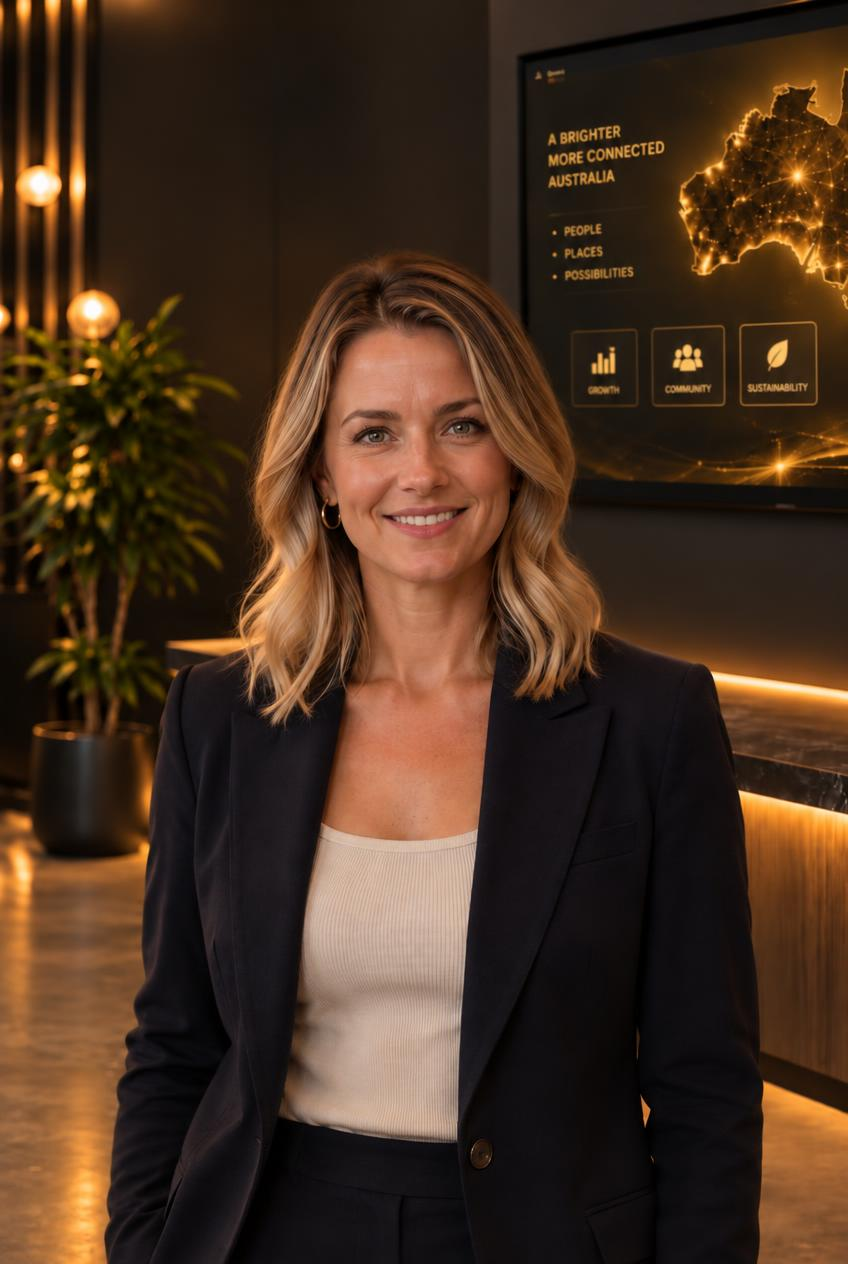
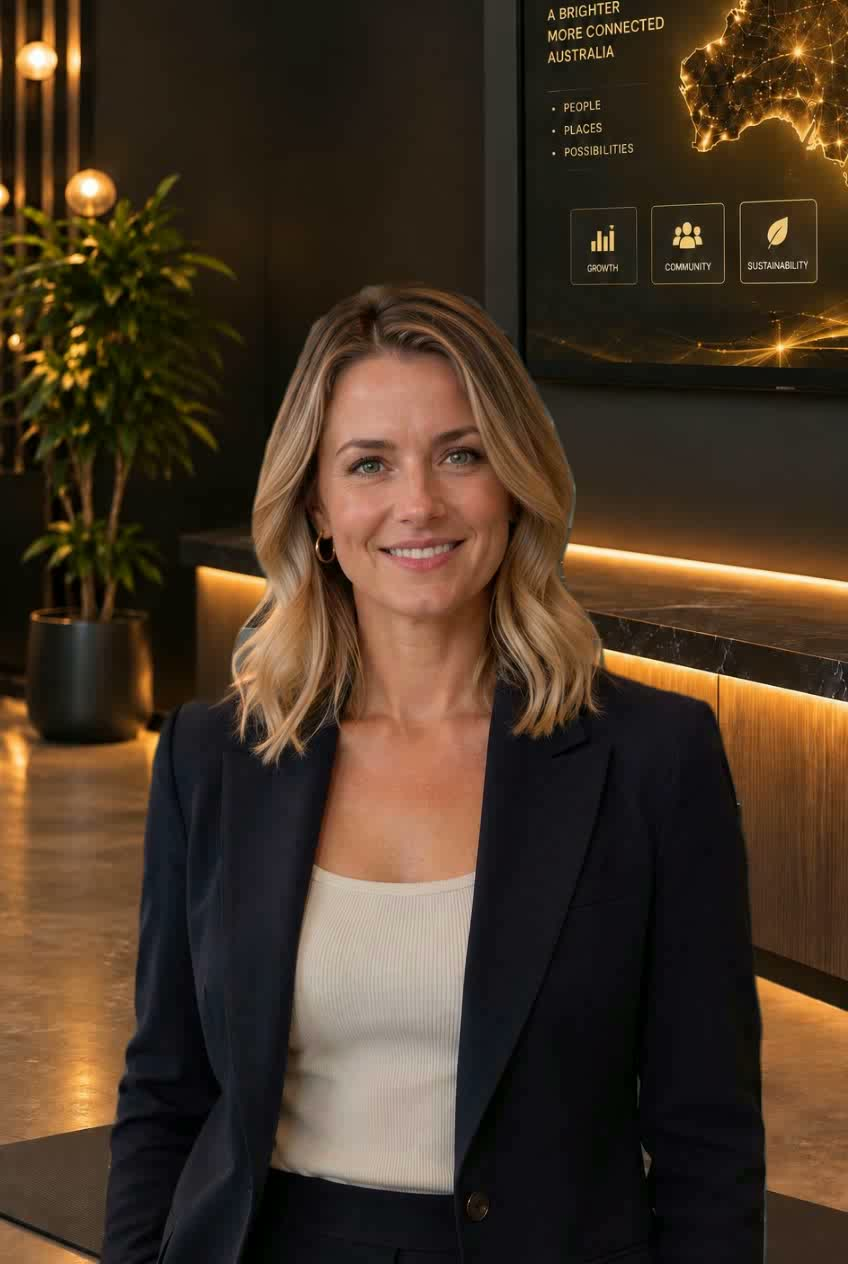
Oracle chat: restore original clips and framing with the office background swapped for the gold studio

diff --git a/src/components/oracle/OraclePresenterStage.tsx b/src/components/oracle/OraclePresenterStage.tsx
@@ -3,17 +3,17 @@ import { Button } from "@/components/ui/button";
 import { Play } from "lucide-react";
 import fitnessOutfitUrl from "@/assets/fitness/oracle-fitness-outfit-green.jpg";
 import fitnessIdleClip from "@/assets/fitness/fitness-idle-glance.mp4.asset.json";
-import studioPortraitUrl from "@/assets/avatars/oracle-studio-portrait.jpg";
-import studioIdleClip from "@/assets/avatars/oracle-studio-idle.mp4.asset.json";
-import portrait from "@/assets/avatars/oracle-futuristic-office.jpg";
+// Same filmed clips as always, with the office background swapped for the gold studio.
+import portrait from "@/assets/avatars/oracle-studio-portrait.jpg";
 import blushOverlay from "@/assets/avatars/oracle-blush.png";
 import blushClipOverlay from "@/assets/avatars/oracle-blush-clip.png";
 // Smooth single-take shot locked to the canonical portrait (same face across the angle drift).
-import listeningClipUrl from "@/assets/avatars/oracle-office-listening-smooth.webm";
-import greetingClipUrl from "@/assets/avatars/oracle-clip-greeting.webm";
-import thinkingClipUrl from "@/assets/avatars/oracle-clip-thinking.webm";
+import listeningClip from "@/assets/avatars/oracle-studio-office-listening-smooth.webm.asset.json";
+import greetingClip from "@/assets/avatars/oracle-studio-clip-greeting.webm.asset.json";
+import thinkingClip from "@/assets/avatars/oracle-studio-clip-thinking.webm.asset.json";
 import talkingClipUrl from "@/assets/avatars/oracle-clip-talking.webm";
-import doneClipUrl from "@/assets/avatars/oracle-clip-done.webm";
+import doneClip from "@/assets/avatars/oracle-studio-clip-done.webm.asset.json";
+const listeningClipUrl = listeningClip.url, greetingClipUrl = greetingClip.url, thinkingClipUrl = thinkingClip.url, doneClipUrl = doneClip.url;
 import { talkingPose, poseTransform } from "@/lib/talkingMotion";
 import { choosePresenterClip, presenterHistory, type PresenterClip } from "@/lib/oracleClipSelection";
 
@@ -100,9 +100,8 @@ export default function OraclePresenterStage({ state, image, userId, cue, onCueD
   // original outfit); a generated reply video still plays on top.
   // The bundled workout outfit has its own filmed silent waiting loop.
   const fitnessLook = !!image && image.includes(fitnessOutfitUrl);
-  const studioLook = !!image && image.includes(studioPortraitUrl);
   const plan: ClipPlan | null = image
-    ? (replyVideoUrl ? { url: replyVideoUrl, audible: true, loop: false } : fitnessLook ? { url: fitnessIdleClip.url, audible: false, loop: true } : studioLook ? { url: studioIdleClip.url, audible: false, loop: true } : null)
+    ? (replyVideoUrl ? { url: replyVideoUrl, audible: true, loop: false } : fitnessLook ? { url: fitnessIdleClip.url, audible: false, loop: true } : null)
     : replyVideoUrl
       ? { url: replyVideoUrl, audible: true, loop: false }
       : cue

diff --git a/src/pages/OraclePage.tsx b/src/pages/OraclePage.tsx
@@ -44,7 +44,7 @@ import { loadLook, saveLook, lookPersona, type OracleLook } from "@/lib/oracleLo
 import { embarrassedLine, freshSoundState, humanSoundUrl, loadSoundPrefs, nextSoundState, pickHumanSound, planMidReplyBreaths, playHumanSound, saveSoundPrefs, wantsNervousGiggle, type HumanSoundPrefs } from "@/lib/oracleHumanSounds";
 import { Switch } from "@/components/ui/switch";
 import { loadOutfit, saveOutfit, parseOutfitCommand, requestOutfitImage, outfitPrompt, toSmallDataUrl, OutfitError, isStandby, type OracleOutfit } from "@/lib/oracleOutfit";
-import standbyLoop from "@/assets/avatars/oracle-standby-loop.webm.asset.json";
+import standbyLoop from "@/assets/avatars/oracle-studio-standby.webm.asset.json";
 import studioPortraitUrl from "@/assets/avatars/oracle-studio-portrait.jpg";
 import fitnessStudioUrl from "@/assets/fitness/fitness-studio-empty.jpg";
 import fitnessOutfitUrl from "@/assets/fitness/oracle-fitness-outfit-green.jpg";
@@ -3306,7 +3306,7 @@ const OraclePage = () => {
   return <>
     <SEO title="Oracle Lunar — Your AI companion" description="Your Oracle Lunar companion, saved creations and connected tools in one private workspace." path="/oracle" />
     <main className="oracle-call h-[100dvh] flex flex-col relative overflow-hidden bg-background">
-      <OraclePresenterStage userId={user?.id} image={outfit?.url || look?.url || studioPortraitUrl} standbyUrl={standby ? standbyLoop.url : undefined} blush={blush} state={replyVideoUrl ? "speaking" : videoReplyPending ? "thinking" : isSpeaking ? "speaking" : isLoading ? "thinking" : isListening ? "listening" : "idle"} cue={presenterCue} onCueDone={() => setPresenterCue(null)} replyVideoUrl={replyVideoUrl} onReplyVideoDone={() => setReplyVideoUrl(null)} />
+      <OraclePresenterStage userId={user?.id} image={outfit?.url || look?.url} standbyUrl={standby ? standbyLoop.url : undefined} blush={blush} state={replyVideoUrl ? "speaking" : videoReplyPending ? "thinking" : isSpeaking ? "speaking" : isLoading ? "thinking" : isListening ? "listening" : "idle"} cue={presenterCue} onCueDone={() => setPresenterCue(null)} replyVideoUrl={replyVideoUrl} onReplyVideoDone={() => setReplyVideoUrl(null)} />
       <header className="oracle-header relative z-10 flex items-center justify-between gap-3">
         <div className="min-w-0">
           <h1 className="font-semibold text-foreground">Oracle <span className="font-normal text-primary">Lunar</span></h1>
